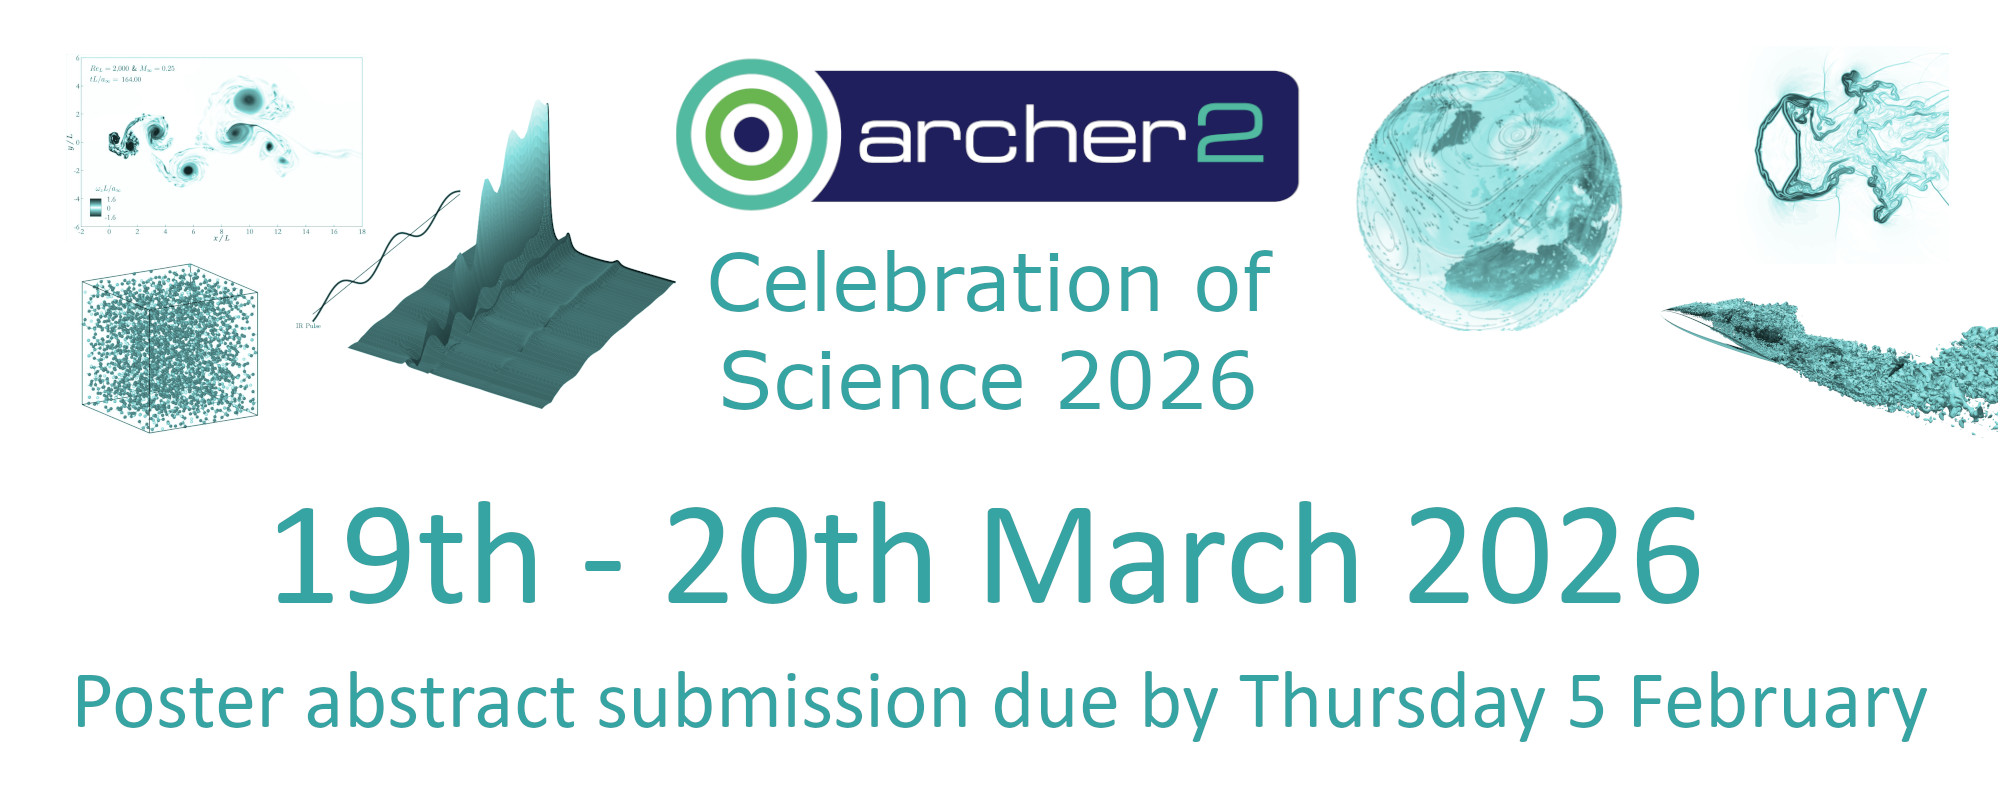
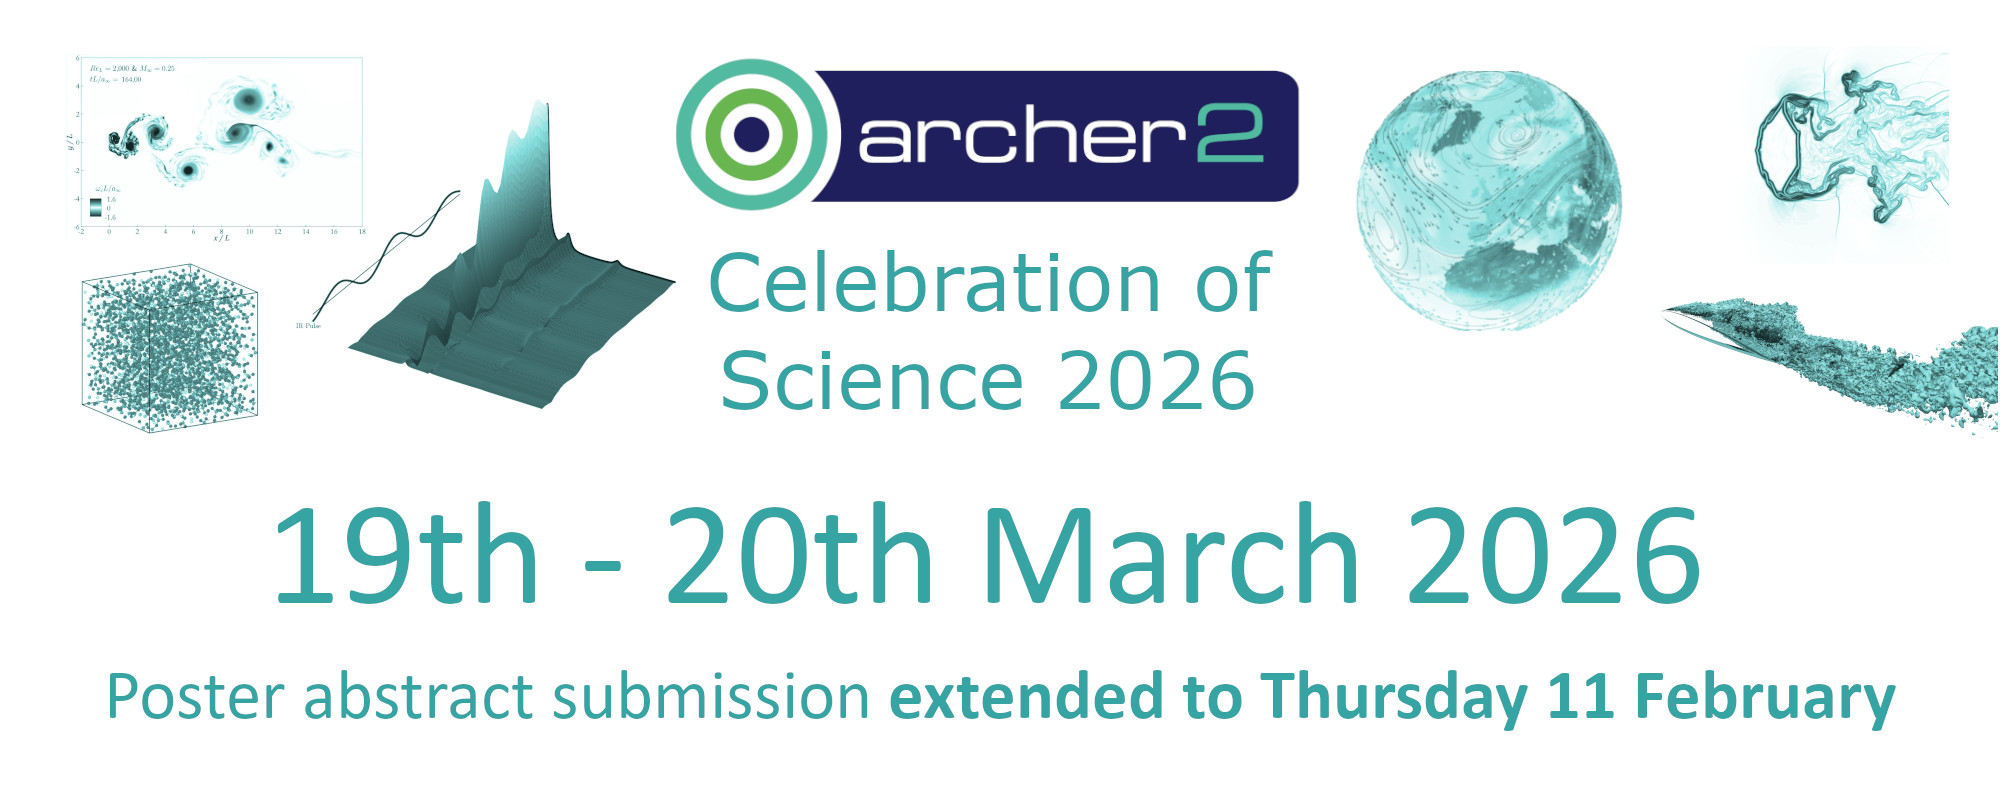
update news and CoS poster abstract deadline

Changed region(s): [[0.031, 0.8438, 0.961, 0.9375]]

diff --git a/_posts/2026-02-04-newsletter.md b/_posts/2026-02-04-newsletter.md
@@ -9,7 +9,7 @@ categories: [news]
 
 - [ARCHER2 Capability Days: 3-5 March 2026]({{ page.url }}#archer2-capability-days-3-5-march-2026)
 - [Championing Green Digital Research Workshop - Day 0 of ARCHER2 Celebration of Science 2026]({{ page.url }}#championing-green-digital-research-workshop---day-0-of-archer2-celebration-of-science-2026)
-- [ARCHER2 Celebration of Science 2026]({{ page.url }}#archer2-celebration-of-science-2026) - Poster abstract submission due 5 Feb 2026
+- [ARCHER2 Celebration of Science 2026]({{ page.url }}#archer2-celebration-of-science-2026) - Poster abstract **submission extended to 11 Feb 2026**
 - [Getting Started with ReFrame on ARCHER2]({{ page.url }}#getting-started-with-reframe-on-archer2), Free webinar, Wednesday 4th February 2026 15:00 - 16:00 
 - [Data Analysis and Visualisation in Python]({{ page.url }}#data-analysis-and-visualisation-in-python), Online, 23 - 24 February 2026 09:30 - 16:30 
 - [GPU programming with kernels]({{ page.url }}#gpu-programming-with-kernels), Online, 25 - 27 February 2026 10:00 - 16:00 
@@ -50,7 +50,7 @@ We are pleased to let you know the Championing Green Digital Research Workshop w
 
 The majority of people involved in research using digital research infrastructure (DRI) want to understand and reduce the emissions associated with their research activities to have a positive impact on the path to net zero emissions from research. The term DRI includes a very broad range of infrastructure from personal devices (smartphones, laptops, etc.), through high end servers (HPC and HTC systems) to commercial cloud computing resources. Although most people want to take action, they are hampered by a lack of understanding of the scale and source of DRI emissions, uncertain on what they can do in their day-to-day work, and find it difficult when challenged by colleagues or acquaintances who may be sceptical about taking action. This workshop will provide insight into and expand on recent efforts to understand what skills are needed to empower researchers and other digital research technical professionals to make and advocate for positive impact in using DRI for research.
 
-Registration is open now. Travel support application is due by 5 February 2026. 
+Registration is open now. **Travel support application is extended to 19 February 2026.**
 
 [Further details](https://www.archer2.ac.uk/community/events/celebration-of-science-2026/day0 )
 
@@ -58,7 +58,7 @@ Registration is open now. Travel support application is due by 5 February 2026.
 
 ## ARCHER2 Celebration of Science 2026
 
-**Poster abstract submission due 5 Feb 2026**
+**Poster abstract submission extended to 11 Feb 2026**
 
 We are pleased to announce that [ARCHER2 Celebration of Science 2026](https://www.archer2.ac.uk/community/events/celebration-of-science-2026/) will take place on the 19th - 20th March 2026 in Edinburgh at South Hall, The University of Edinburgh.
 
@@ -78,7 +78,7 @@ The two-day programme of ARCHER2 Celebration of Science 2026 will include:
 -    **ARCHER2 User Forum**: learn about the latest service updates and engage directly with the ARCHER2 team. 
 -    **Diversity Session**: an interactive session to discuss the equality, diversity and inclusion challenges related to the delivery of HPC services. 
 
-[Registration](https://forms.office.com/e/bYHMcP8KLc), and [Call for posters]({{ base-url }}/community/events/celebration-of-science-2026#call-for-posters)  is now open and poster abstract submission will be due by 5 February 2026.  [Full details here ](https://www.archer2.ac.uk/community/events/celebration-of-science-2026/)
+[Registration](https://forms.office.com/e/bYHMcP8KLc), and [Call for posters]({{ base-url }}/community/events/celebration-of-science-2026#call-for-posters)  is now open and poster abstract submission extended to 11 February 2026.  [Full details here ](https://www.archer2.ac.uk/community/events/celebration-of-science-2026/)
 
 
 ## Getting Started with ReFrame on ARCHER2
